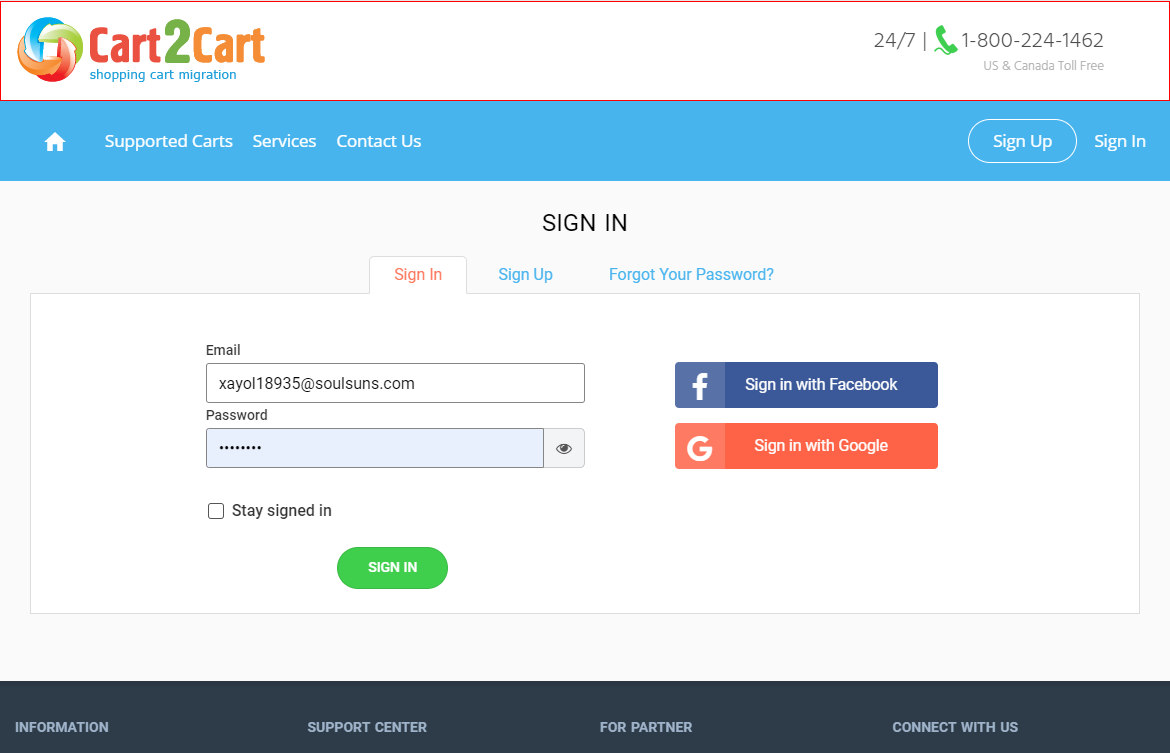
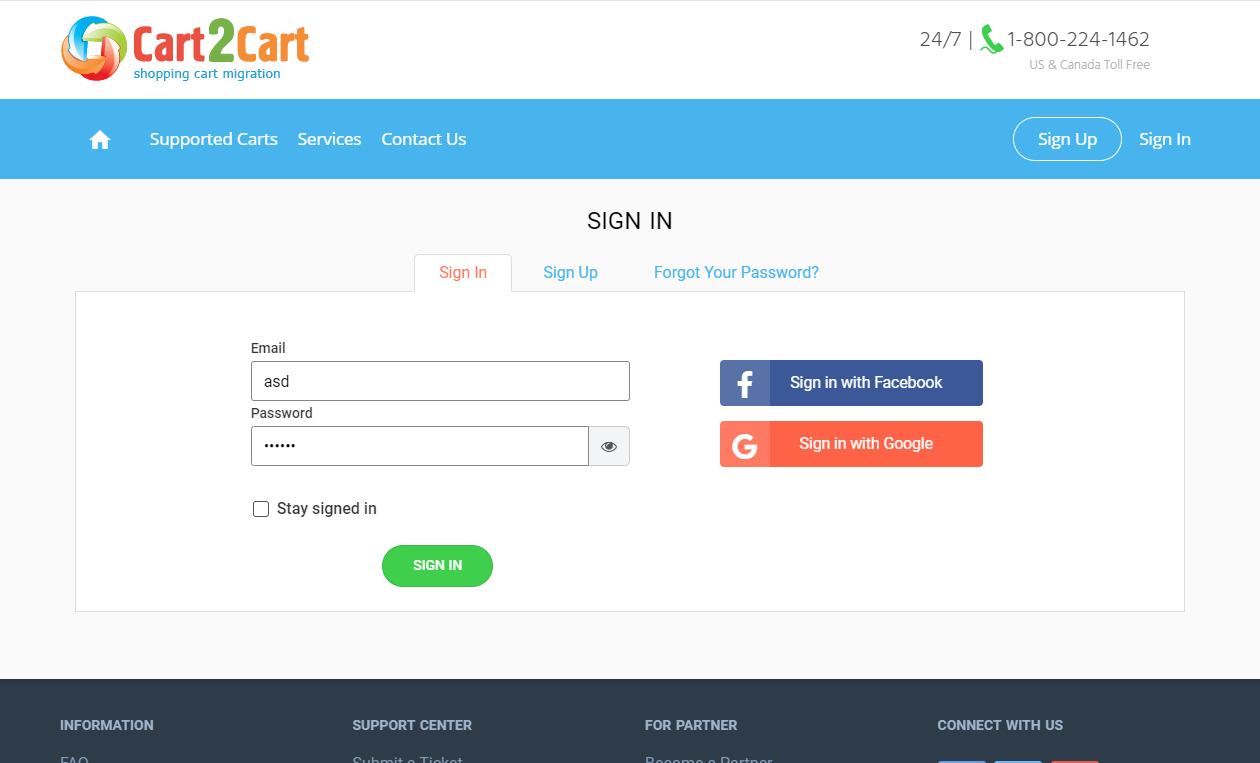
SignIn

diff --git a/src/components/sign/tabs/SignIn.js b/src/components/sign/tabs/SignIn.js
@@ -1,9 +1,28 @@
 import React from "react";
+import { Input, Checkbox } from 'antd';
+import Button from '../../button';
 
 export default function SignIn() {
     return (
         <div className="SignIn">
-            SignIn
+            <div className="wrapper">
+                <div className="fields">
+                    <div className="field username">
+                        <p>Email</p>
+                        <Input size="large" placeholder="Email" />
+                    </div>
+                    <div className="field password">
+                        <p>Password</p>
+                        <Input.Password  size="large" placeholder="Password" />
+                    </div>
+                    <Checkbox>Stay signed in</Checkbox>
+                    <br/>
+                    <Button title="Sign in"/>
+                </div>
+                <div className="buttons">
+
+                </div>
+            </div>
         </div>
     );
 }

diff --git a/styles/components/SignIn.scss b/styles/components/SignIn.scss
@@ -1,7 +1,32 @@
 .SignIn {
+  @include setFlex(column, flex-start, center );
   border: 1px solid $color-gray-a;
   border-top: none ;
   background-color: $color-white-a;
   padding: 1em ;
   margin-bottom: 1em ;
+  width: 100% ;
+  &> .wrapper {
+    max-width: 54em;
+    width: 100% ;
+    &> div {
+      display: flex;
+      flex-direction: column;
+      width: calc(100% / 2);
+      padding-top: 2.3em;
+      p { font-size: 14px ; margin: 0 }
+    }
+    &> div:first-child {
+      .ant-checkbox-wrapper {
+        padding-top: 2em;
+        font-size: $font-size-a ;
+      }
+      &> .Button {
+        @include buttonStyleA( $color-white-a, $color-green-a, $color-green-a, $color-white-a, $color-green-b, $color-green-b ) ;
+        align-self: center;
+        justify-self: center;
+        text-transform: uppercase;
+      }
+    }
+  }
 }

diff --git a/styles/components/Sign.scss b/styles/components/Sign.scss
@@ -20,7 +20,7 @@
         }
       }
       .ant-tabs-tab {
-        margin-right: 10px!important;
+        margin-right: 3px!important;
         background: none;
         border: 1px solid transparent;
         padding: 7px 24px;
@@ -34,16 +34,17 @@
         background-color: $color-white-a ;
         border: 1px solid $color-gray-a;
         border-bottom: 1px solid $color-white-a ;
-        .ant-tabs-tab-btn {
-          color: $color-red-a ;
-        }
+        .ant-tabs-tab-btn { color: $color-red-a }
       }
       .ant-tabs-tab-btn {
         color: $color-blue-a ;
         font-size: $font-size-a;
         font-family: $font-family-a;
       }
-
+      .ant-tabs-tabpane {
+        display: flex;
+        justify-content: center;
+      }
     }
   }
 }

diff --git a/styles/helpers/constants.scss b/styles/helpers/constants.scss
@@ -1,4 +1,4 @@
-$screen-width-a: 1184px ;
+$screen-width-a: 1154px ;
 $offset-size: 15px ;
 $font-size-a: 16px ;
 $font-family-a: 'Roboto', sans-serif;
@@ -16,3 +16,6 @@ $color-blue-light-b: #7e9bb8 ;
 $color-blue-dark-a: #2e3c49 ;
 $color-red-a: #ff775d ;
 $color-gray-a: #ddd ;
+
+$color-green-a: #40cf4d ;
+$color-green-b: #31c43f ;
